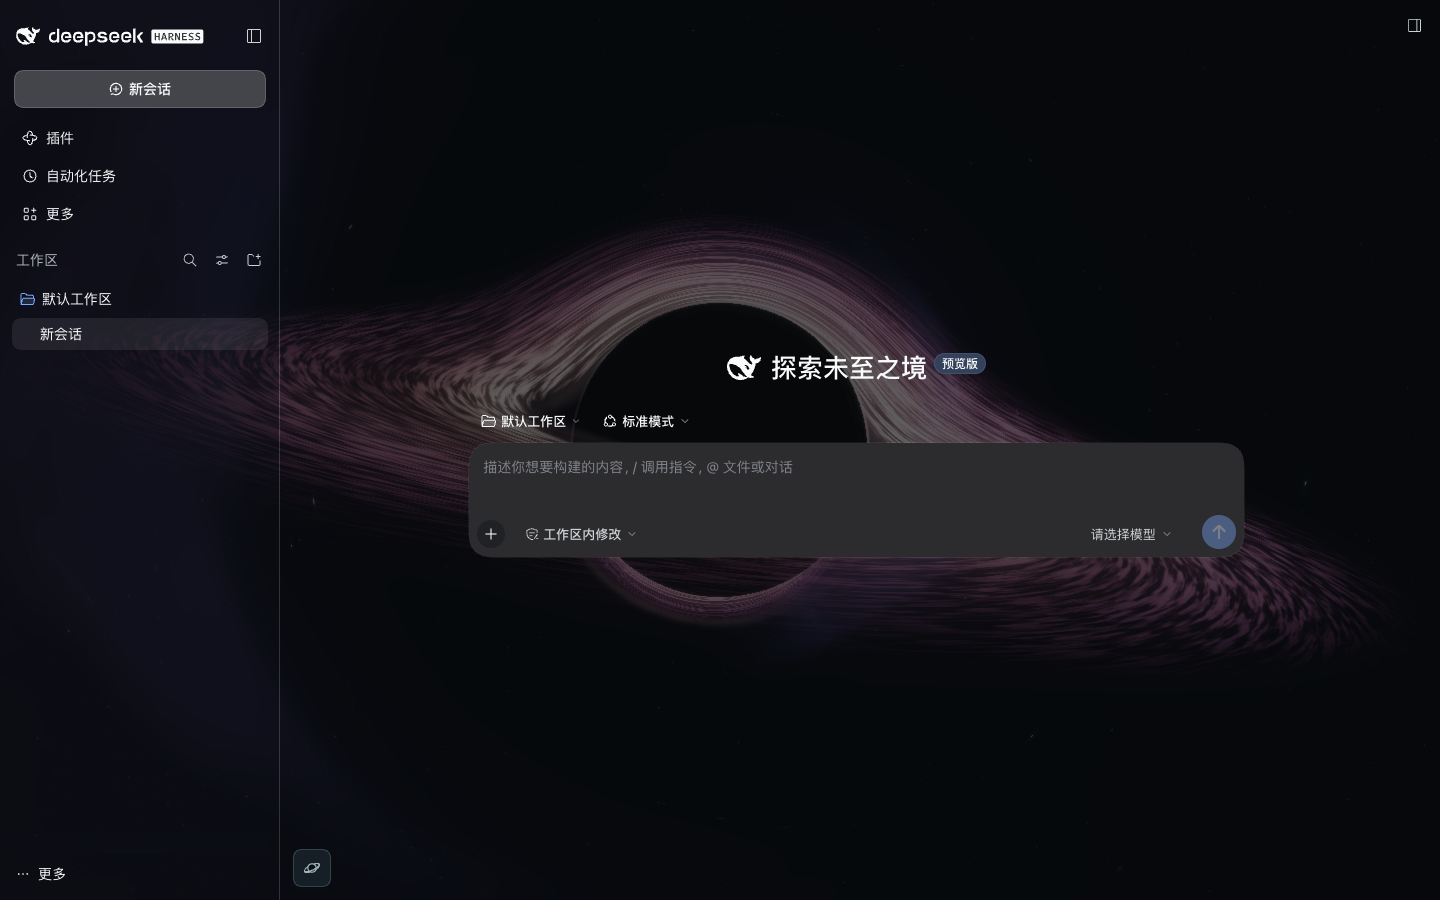
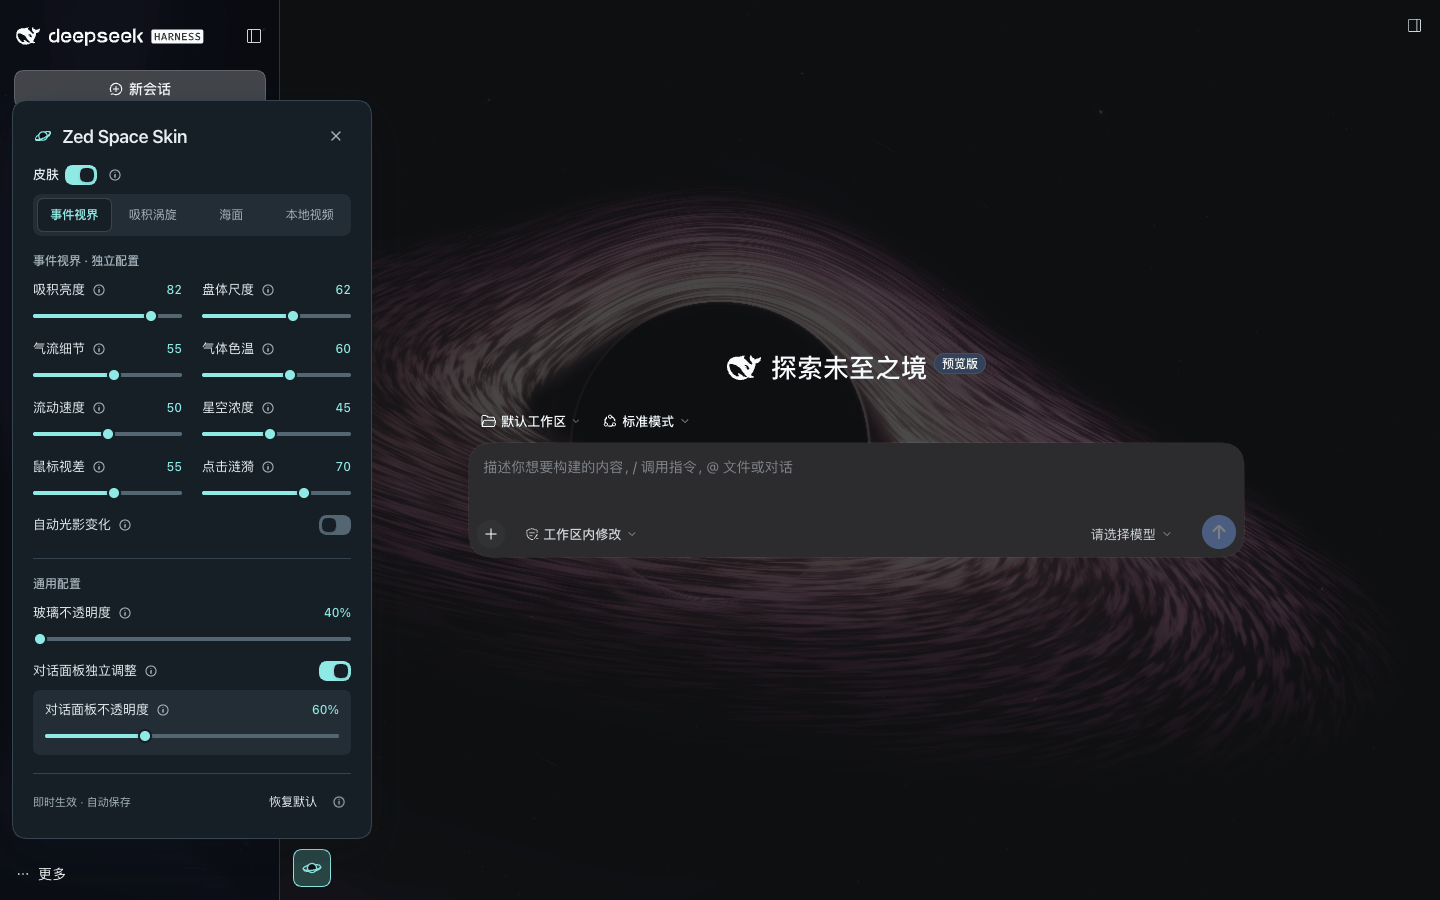
docs: 展示壁纸配置与独立透明度并压缩实拍截图

diff --git a/docs/screenshots/README.md b/docs/screenshots/README.md
@@ -1,38 +1,52 @@
 # README 运行截图
 
-这五张图拍摄于 2026 年 10 月 26 日，来自真实的 DeepSeek Harness Web 界面。
+这五张图于 2026 年 10 月 27 日重拍，来自真实的 DeepSeek Harness Web 界面。每张图都打开当前壁纸的配置面板。
 
 ## 拍摄环境
 
 - macOS；本机 DeepSeek Harness 自带 CLI，版本 `0.2.1-rc.3`。
 - 独立 `DSH_HOME`，从官方 `web` 模板建立临时 `readme` profile；服务只监听 `127.0.0.1`。
-- 使用正常的 `dsh plugin --profile readme add <本地 tarball>` 安装 `dsh-zed-space@1.0.0`。
+- 从主分支 `f41caa3dcb064028f9c63a3b89ce921059d44f89` 打包，通过正常的 `dsh plugin --profile readme add <本地 tarball>` 安装 `dsh-zed-space@1.0.0`。
 - 独立 Chrome profile，视口统一为 **1440 × 900**。
-- 截图为新建会话页，不含私人对话。背景通过插件设置面板选择，视频通过文件导入入口添加。
-- 图片直接保存浏览器截图，没有替换页面内容、拼接壁纸或后期调色。
+- 截图为新建会话页，不含私人对话。背景通过插件设置面板选择，视频通过文件导入入口添加，并通过重命名功能设置中文名称。
+- 图片直接来自浏览器截图，只做下述压缩，没有替换页面内容、拼接壁纸、调色或改变分辨率。
 
 ## 五个场景
 
-所有场景的玻璃不透明度为 40%，关闭「对话面板独立调整」，让背景清晰可见。
+所有场景的玻璃不透明度均设为滑块最低值 **40%**；开启「对话面板独立调整」，将其不透明度设为 **60%**，比全局值高 20 个百分点。配置面板保持打开，当前壁纸、全局不透明度和会话独立不透明度都能在图中看到。
 
 | 图片 | 场景与设置 |
 | --- | --- |
 | [事件视界](harness-event-horizon.png) | 深色界面；吸积亮度 82，盘体尺度 62，关闭自动光影变化；其余参数为默认值。 |
 | [吸积涡旋](harness-accretion-vortex.png) | 深色界面；吸积亮度 86，盘体尺度 58，气体色温 72，关闭自动光影变化；其余参数为默认值。 |
 | [海面](harness-ocean.png) | 浅色界面；波浪大小 62，日光 23（金色时刻），关闭自动昼夜变化。 |
-| [云海日出](harness-video-clouds.png) | 深色界面；导入并启用 `sea-of-clouds.mp4`，静音循环播放。 |
-| [深蓝潜行](harness-video-deep-dive.png) | 深色界面；导入并启用 `astronaut-deep-dive.mp4`，静音循环播放。 |
+| [云海日出](harness-video-clouds.png) | 深色界面；导入 `sea-of-clouds.mp4`，重命名为「云海日出」并启用，静音循环播放。 |
+| [深蓝潜行](harness-video-deep-dive.png) | 深色界面；导入 `astronaut-deep-dive.mp4`，重命名为「深蓝潜行」并启用，静音循环播放。 |
 
 两个黑洞画面分别是插件中「事件视界」与「吸积涡旋」的实时渲染视角。
 
 ## 视频素材
 
-选用现有 Zed Space 项目的本地样例，资产 ID 分别为 `sea-of-clouds`、`astronaut-deep-dive`。两段均为 1920 × 1080、H.264、无音轨；时长分别为 15 秒和约 25.17 秒，大小分别约 4.9 MiB 和 4.5 MiB。
+从本机 Zed Space 素材库获取临时副本，资产 ID 分别为 `sea-of-clouds`、`astronaut-deep-dive`。哈希与上一轮截图使用的素材一致。两段均为 1920 × 1080、H.264、无音轨；时长分别为 15 秒和约 25.17 秒，大小分别约 4.9 MiB 和 4.5 MiB。
 
-视频通过正常导入和播放流程取图，仅用于展示本地视频壁纸效果，不随插件或本仓库分发。截图也不表示插件已提供在线壁纸市场。
+视频通过正常导入和播放流程取图，仅用于展示本地视频壁纸效果，不随插件或本仓库分发。配置面板里的「发现官方精美动态皮肤」是已接入的本地验收功能，公网平台尚未开放；本次未通过该入口下载。
+
+## 图片压缩
+
+使用 imgsz-optimize 的内置 CaesiumCLT，保留 PNG 格式和 1440 × 900 分辨率。黑洞与海面采用质量 100；该模式并非严格无损。对照原图检查了文字边缘、渐变和纹理。两张视频截图在默认压缩后出现渐变色带，最终改用无损模式，并确认解码后的像素与原图一致。
+
+| 图片 | 模式 / 质量 | 原始字节 | 最终字节 |
+| --- | --- | ---: | ---: |
+| harness-accretion-vortex.png | 100 | 710881 | 325691 |
+| harness-event-horizon.png | 100 | 470285 | 233549 |
+| harness-ocean.png | 100 | 708338 | 312792 |
+| harness-video-clouds.png | 无损 | 405857 | 342441 |
+| harness-video-deep-dive.png | 无损 | 428191 | 367313 |
+
+最终 5 张图片均成功压缩，0 张跳过、0 张失败；总计从 **2,723,552 字节**降至 **1,581,786 字节**，减少 **41.9%**。未压缩原图和压缩报告在本地取图记录中保留，不加入发布仓库。
 
 ## 验证范围
 
-已核对 Harness 提供的海面、宇宙和视频运行资源与候选包逐字节一致，并确认两个视频在截图时均已解码、静音且正在播放。截图只证明上述 Web 界面与场景，不作为原生 Desktop 或模型对话流程的验收结论。
+已核对 Harness 提供的海面、宇宙和视频运行资源与安装包逐字节一致；确认所有场景为 40% / 60%，并确认两个视频在截图时均已解码、静音且正在播放。最终 PNG 均可解码，格式与尺寸符合要求。截图只证明上述 Web 界面与场景，不作为原生 Desktop 或模型对话流程的验收结论。
 
-拍摄后清理独立测试 profile、浏览器 profile、临时视频副本及测试服务，保留截图与取图记录。
+拍摄后已关闭测试浏览器与服务，清理独立测试 profile、浏览器 profile 和临时视频副本。保留现有用户工作区，以及截图与取图记录。

diff --git a/README.en.md b/README.en.md
@@ -23,11 +23,11 @@ This is an independent community plugin for DeepSeek Harness, not an official De
 | Local video library | Import multiple files, view thumbnails, enable one video, rename, remove, and restore after reopening. |
 | Smooth transitions | Wait for the next frame before blending; both cosmic views transition within one renderer. |
 
-Each video is limited to **32 MiB, 30 seconds, and 1080p**. See [local video background](https://github.com/hetonghao/dsh-zed-space/blob/main/docs/video-background.md) for formats and storage details. Media stays on the device and is not automatically uploaded or synced through a browser account. **A shared wallpaper library is planned; there is no wallpaper marketplace today.**
+Each video is limited to **32 MiB, 30 seconds, and 1080p**. See [local video background](https://github.com/hetonghao/dsh-zed-space/blob/main/docs/video-background.md) for formats and storage details. Media stays on the device and is not automatically uploaded or synced through a browser account. **The local acceptance build includes the official video skin gallery.** Open “Discover official animated skins” from “Local video” to browse, preview, and download; applying a downloaded video is a separate action. The gallery service currently runs locally. See [local marketplace integration](docs/market-integration.md).
 
 ## Scene gallery
 
-These five screenshots were captured in the real **DeepSeek Harness Web 0.2.1-rc.3** application with `dsh-zed-space@1.0.0` installed in a separate temporary profile. See the [capture environment, settings, and media sources](https://github.com/hetonghao/dsh-zed-space/blob/main/docs/screenshots/README.md).
+These five screenshots were captured in the real **DeepSeek Harness Web 0.2.1-rc.3** application with `dsh-zed-space@1.0.0` installed in a separate temporary profile. Each image shows the active wallpaper’s settings: glass opacity at its minimum of **40%**, with independent conversation opacity enabled at **60%**. The PNGs are compressed without resizing. See the [capture environment, settings, and media sources](https://github.com/hetonghao/dsh-zed-space/blob/main/docs/screenshots/README.md).
 
 ### Black hole · event horizon
 
@@ -74,7 +74,7 @@ Not yet. Version 1.0.0 is unpublished. Installation instructions and downloads w
 
 **Is there a shared wallpaper marketplace?**
 
-No. Local video management is implemented; a shared library remains planned.
+The local acceptance build connects to the official video skin gallery and shares its catalog with Zed Space. You can browse, download to “My videos,” and apply a video in DSH. It is not publicly released; see [local marketplace integration](docs/market-integration.md) for setup requirements.
 
 **Why is historical Backspace content still present?**
 

diff --git a/README.md b/README.md
@@ -27,7 +27,7 @@
 
 ## 场景展示
 
-以下五张截图来自 **DeepSeek Harness Web 0.2.1-rc.3** 的真实运行界面，安装的是 `dsh-zed-space@1.0.0`。截图使用独立临时 profile；[截图环境、参数与素材来源](https://github.com/hetonghao/dsh-zed-space/blob/main/docs/screenshots/README.md)均有记录。
+以下五张截图来自 **DeepSeek Harness Web 0.2.1-rc.3** 的真实运行界面，安装的是 `dsh-zed-space@1.0.0`。截图使用独立临时 profile，展示当前壁纸的配置面板：玻璃不透明度为最低值 **40%**，开启对话面板独立调整并设为 **60%**。图片已压缩；[截图环境、参数与素材来源](https://github.com/hetonghao/dsh-zed-space/blob/main/docs/screenshots/README.md)均有记录。
 
 ### 黑洞 · 事件视界
 

diff --git a/README.zh.md b/README.zh.md
@@ -27,7 +27,7 @@
 
 ## 场景展示
 
-以下五张截图来自 **DeepSeek Harness Web 0.2.1-rc.3** 的真实运行界面，安装的是 `dsh-zed-space@1.0.0`。截图使用独立临时 profile；[截图环境、参数与素材来源](https://github.com/hetonghao/dsh-zed-space/blob/main/docs/screenshots/README.md)均有记录。
+以下五张截图来自 **DeepSeek Harness Web 0.2.1-rc.3** 的真实运行界面，安装的是 `dsh-zed-space@1.0.0`。截图使用独立临时 profile，展示当前壁纸的配置面板：玻璃不透明度为最低值 **40%**，开启对话面板独立调整并设为 **60%**。图片已压缩；[截图环境、参数与素材来源](https://github.com/hetonghao/dsh-zed-space/blob/main/docs/screenshots/README.md)均有记录。
 
 ### 黑洞 · 事件视界
 
